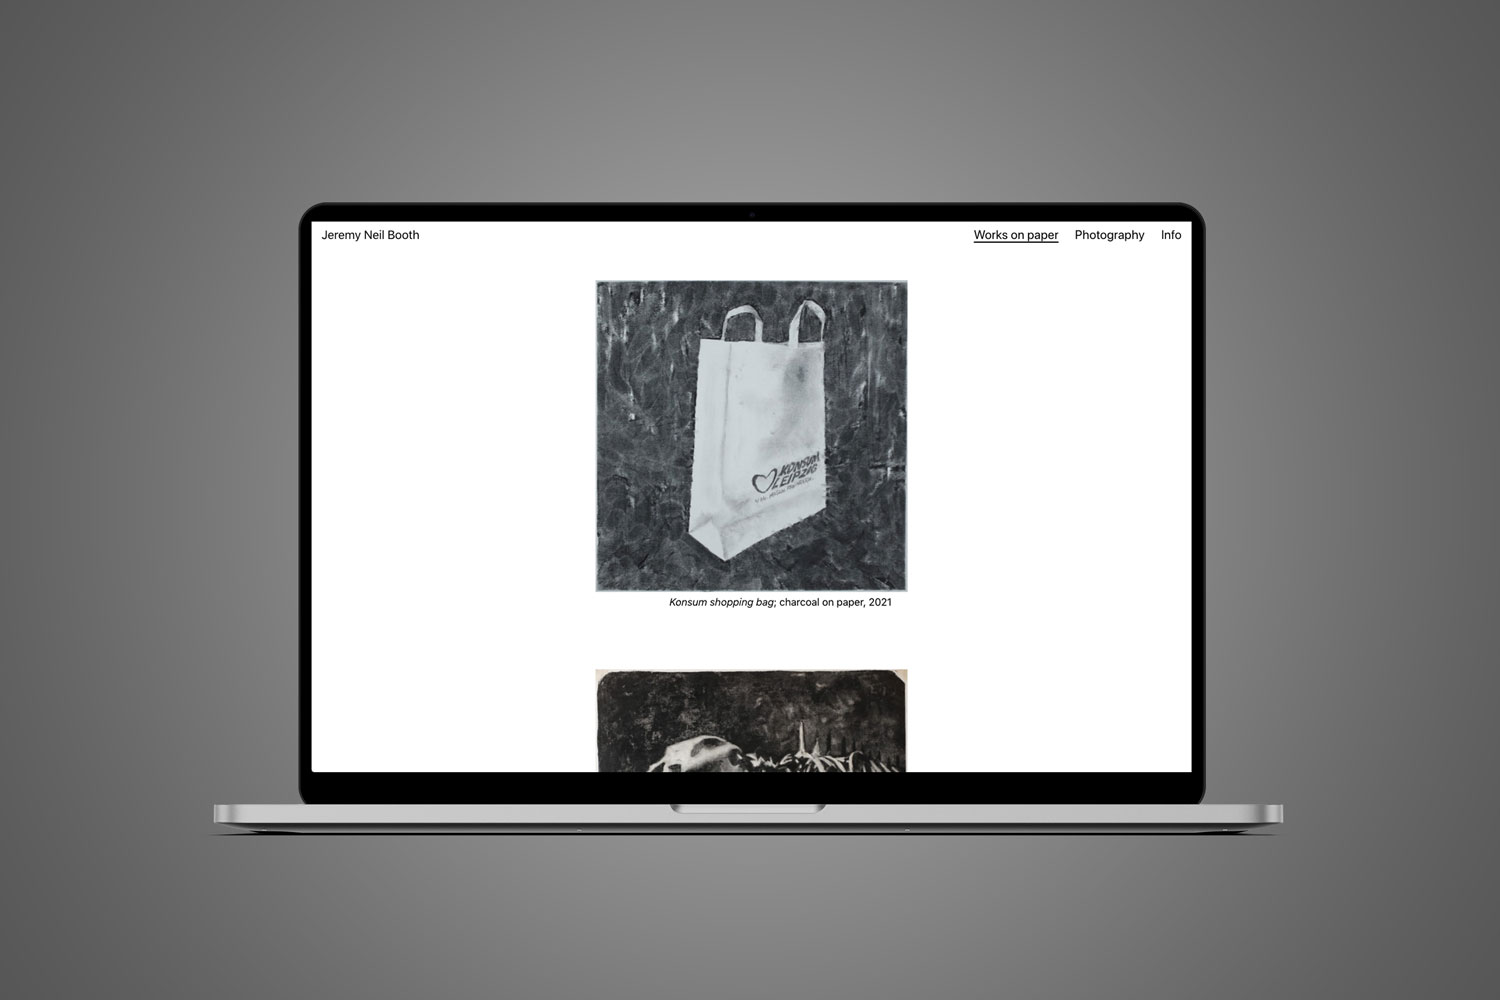
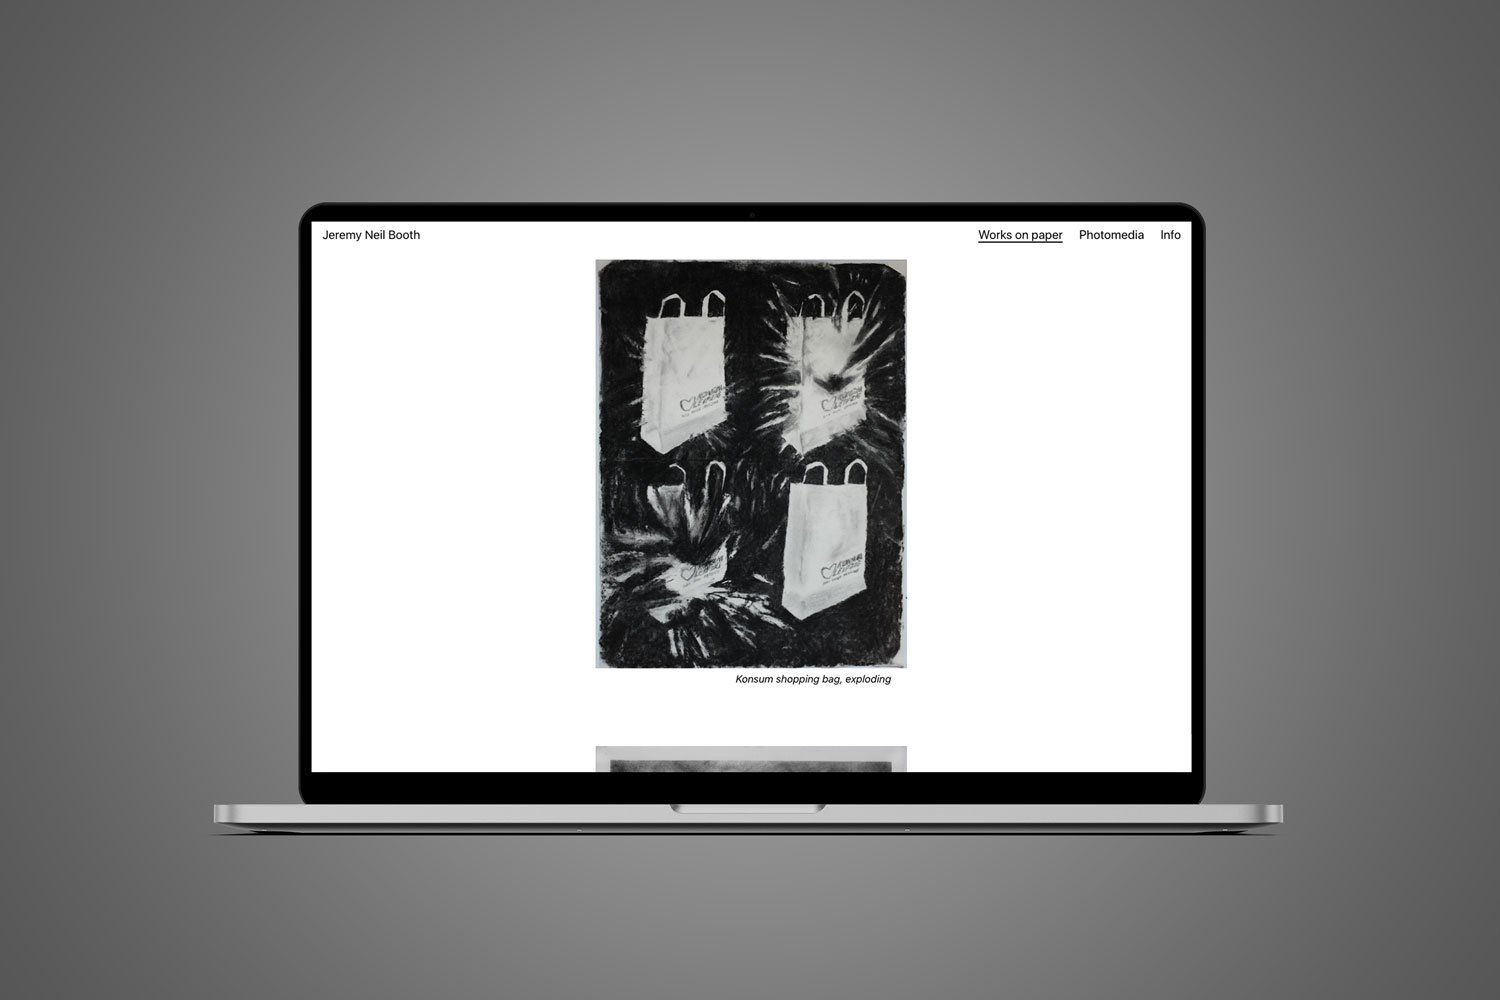
replace images

Changed region(s): [[0.3987, 0.248, 0.6133, 0.775], [0.644, 0.217, 0.7667, 0.248], [0.2147, 0.217, 0.276, 0.248]]

diff --git a/docs/subpages/jeremy-neil-booth-website.html b/docs/subpages/jeremy-neil-booth-website.html
@@ -35,7 +35,7 @@
 
     <div class="projects-grid">
       <div class="presentation-section noselect">
-        <img src="../img/jeremy-neil-booth/JeremyBooth_MacBook_Mockup-Landing-3.jpg" class="banner resize" alt="banner" />
+        <img src="../img/jeremy-neil-booth/JeremyBooth_MacBook_Mockup-Landing-4.jpg" class="banner resize" alt="banner" />
       </div>
 
       <div class="project-info">
@@ -47,7 +47,7 @@
           </p>
           <p>
             I have created a minimalistic and functional portfolio website for the New Zealand artist Jeremy Neil Booth.
-            The website combines the two media of his artistic output, works on paper and photography.
+            The website combines the two media of his artistic output, works on paper and photomedia.
           </p>
 
           <p>
@@ -61,13 +61,13 @@
       <div class="presentation-section">
         <div class="show">
           <div class="show-item noselect">
-            <img loading="lazy" src="../img/jeremy-neil-booth/JeremyBooth_MacBook_Mockup-Works-on-Paper-3.jpg" class="resize" alt="" />
+            <img loading="lazy" src="../img/jeremy-neil-booth/JeremyBooth_MacBook_Mockup-Works-on-Paper-4.jpg" class="resize" alt="" />
           </div>
           <div class="show-item noselect">
-            <img loading="lazy" src="../img/jeremy-neil-booth/JeremyBooth_MacBook_Mockup-Photography-3.jpg" class="resize" alt="" />
+            <img loading="lazy" src="../img/jeremy-neil-booth/JeremyBooth_MacBook_Mockup-Info-1.jpg" class="resize" alt="" />
           </div>
           <div class="show-item noselect">
-            <img loading="lazy" src="../img/jeremy-neil-booth/JeremyBooth_Mobile-3.jpg" class="resize" alt="" />
+            <img loading="lazy" src="../img/jeremy-neil-booth/JeremyBooth_Mobile-4.jpg" class="resize" alt="" />
           </div>
 
         </div>
